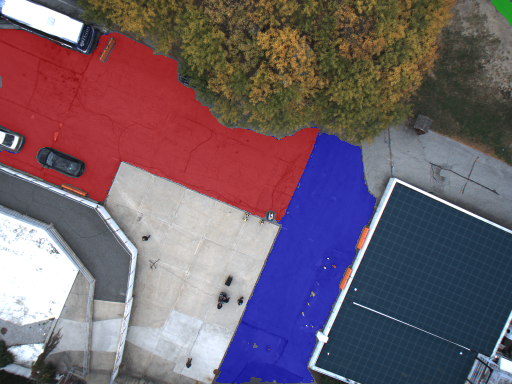
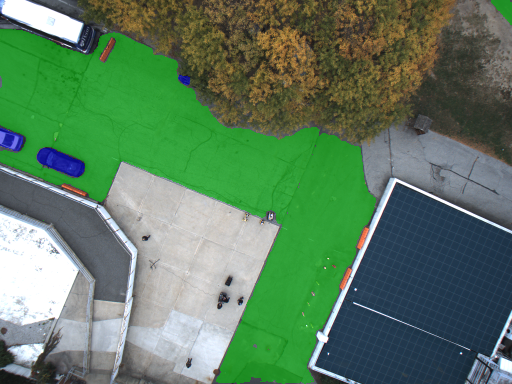
added multiclass segmentation

Changed region(s): [[0.0, 0.0625, 0.75, 1.0]]

diff --git a/cpp/test/test_road.cpp b/cpp/test/test_road.cpp
@@ -2,11 +2,12 @@
 // Author: Jason Hughes
 // Date:   2026
 //
-// Loads test.png (downscaled 4x), segments "road", saves mask and overlay.
-// Mirrors the behaviour of python/test_sam3.py for direct comparison.
+// Loads test.png (downscaled 4x), segments multiple text classes ("road", "car").
+// Image is encoded once; text encoder + mask decoder run once per class.
 
 #include <iostream>
 #include <vector>
+#include <chrono>
 #include <opencv2/opencv.hpp>
 
 #include "sam3/sam3_model.hpp"
@@ -15,7 +16,7 @@
 static const std::string MODELS_DIR  = "../models";
 static const std::string CONFIG_DIR  = "../config";
 static const std::string IMAGE_PATH  = "../../test.png";
-static const std::string TEXT_PROMPT = "road";
+static const std::vector<std::string> TEXT_PROMPTS = {"road", "car"};
 static const int         DOWNSCALE   = 4;
 
 int main(int argc, char** argv)
@@ -25,7 +26,9 @@ int main(int argc, char** argv)
     std::cout << "Loading SAM3 models ...\n";
     Sam3::Sam3 model(MODELS_DIR);
 
-    Sam3::Sam3Processor processor(CONFIG_DIR + "/sam3.yaml", CONFIG_DIR + "/merges.txt", CONFIG_DIR + "/vocab.json");
+    Sam3::Sam3Processor processor(CONFIG_DIR + "/sam3.yaml",
+                                  CONFIG_DIR + "/merges.txt",
+                                  CONFIG_DIR + "/vocab.json");
 
     cv::Mat full = cv::imread(IMAGE_PATH);
     if (full.empty())
@@ -39,70 +42,87 @@ int main(int argc, char** argv)
                cv::Size(full.cols / DOWNSCALE, full.rows / DOWNSCALE),
                0, 0, cv::INTER_AREA);
 
-    std::cout << "Image: " << full.cols << "x" << full.rows << " -> " << image.cols << "x" << image.rows << "\n";
-    std::cout << "Prompt: \"" << TEXT_PROMPT << "\"\n";
+    std::cout << "Image: " << full.cols << "x" << full.rows
+              << " -> " << image.cols << "x" << image.rows << "\n";
 
-    Sam3::Sam3ModelInputs inputs = processor.process(image, TEXT_PROMPT);
+    // Pre-process image (once) and all text prompts.
+    Sam3::Sam3ModelInputs image_inputs = processor.processImageOnly(image);
+    std::vector<Sam3::Sam3TextInputs> text_inputs = processor.processTexts(TEXT_PROMPTS);
 
-    std::cout << "Running inference ...\n";
-    model.setImage(inputs.pixel_values, inputs.orig_height, inputs.orig_width);
-    model.setText(inputs.input_ids, inputs.attention_mask);
-    // initial slow trace to initalize cuDNN
-    Sam3::Sam3Output output = model.inference();
-    
-    for (int i = 0; i < 10; i++) {
-        auto start = std::chrono::high_resolution_clock::now();
-        model.setImage(inputs.pixel_values, inputs.orig_height, inputs.orig_width);
-        output = model.inference();
-        auto end = std::chrono::high_resolution_clock::now();
+    std::cout << "Prompts:";
+    for (const auto& p : TEXT_PROMPTS) std::cout << " \"" << p << "\"";
+    std::cout << "\n";
 
-        std::chrono::duration<double, std::milli> duration = end - start;
-        
-        std::cout << "Test: " << i << " Inference took: " << duration.count() << " ms" << std::endl;
+    // Encode image once.
+    std::cout << "Encoding image ...\n";
+    model.setImage(image_inputs.pixel_values, image_inputs.orig_height, image_inputs.orig_width);
+
+    // Multi-class inference: text encoder + mask decoder run once per class,
+    // image features are reused.
+    std::cout << "Running multi-class inference (" << TEXT_PROMPTS.size() << " classes) ...\n";
+    auto t0 = std::chrono::high_resolution_clock::now();
+    std::vector<Sam3::Sam3Output> outputs = model.inferenceMultiClass(text_inputs);
+    auto t1 = std::chrono::high_resolution_clock::now();
+    std::chrono::duration<double, std::milli> elapsed = t1 - t0;
+    std::cout << "Inference took: " << elapsed.count() << " ms\n";
+
+    for (int i = 0; i < 10; i++) 
+    {
+        auto t0 = std::chrono::high_resolution_clock::now();
+        model.setImage(image_inputs.pixel_values, image_inputs.orig_height, image_inputs.orig_width);
+        std::vector<Sam3::Sam3Output> outputs = model.inferenceMultiClass(text_inputs);
+        auto t1 = std::chrono::high_resolution_clock::now();
+        std::chrono::duration<double, std::milli> elapsed = t1 - t0;
+        std::cout << "Inference took: " << elapsed.count() << " ms\n";
     }
-    std::cout << "pred_masks:      " << output.pred_masks.sizes()      << "\n";
-    std::cout << "pred_logits:     " << output.pred_logits.sizes()     << "\n";
-    std::cout << "presence_logits: " << output.presence_logits.sizes() << "\n";
-
-    std::vector<cv::Mat> masks = processor.postProcess(
-        output.pred_masks,
-        output.pred_logits,
-        output.presence_logits,
-        inputs.orig_height,
-        inputs.orig_width
-    );
-    std::cout << "Instances found: " << masks.size() << "\n";
-
+    // Colour per class.
     const std::vector<cv::Vec3b> colours = {
         {0,200,0}, {220,0,0}, {0,0,220},
         {0,200,200}, {200,0,200}, {200,200,0}
     };
 
-    cv::Mat overlay = image.clone();
+    cv::Mat overlay       = image.clone();
     cv::Mat combined_mask = cv::Mat::zeros(image.size(), CV_8UC1);
 
-    for (size_t i = 0; i < masks.size(); ++i)
+    for (size_t cls = 0; cls < outputs.size(); ++cls)
     {
-        cv::Vec3b col = colours[i % colours.size()];
-        for (int r = 0; r < overlay.rows; ++r)
-            for (int c = 0; c < overlay.cols; ++c)
-                if (masks[i].at<uchar>(r, c) > 0)
-                {
-                    cv::Vec3b pix = image.at<cv::Vec3b>(r, c);
-                    overlay.at<cv::Vec3b>(r, c) = cv::Vec3b(
-                        static_cast<uchar>(0.45f * pix[0] + 0.55f * col[0]),
-                        static_cast<uchar>(0.45f * pix[1] + 0.55f * col[1]),
-                        static_cast<uchar>(0.45f * pix[2] + 0.55f * col[2])
-                    );
-                    combined_mask.at<uchar>(r, c) = 255;
-                }
+        std::cout << "Class \"" << TEXT_PROMPTS[cls] << "\":\n";
+        std::cout << "  pred_masks:      " << outputs[cls].pred_masks.sizes()      << "\n";
+        std::cout << "  pred_logits:     " << outputs[cls].pred_logits.sizes()     << "\n";
+        std::cout << "  presence_logits: " << outputs[cls].presence_logits.sizes() << "\n";
+
+        std::vector<cv::Mat> masks = processor.postProcess(
+            outputs[cls].pred_masks,
+            outputs[cls].pred_logits,
+            outputs[cls].presence_logits,
+            image_inputs.orig_height,
+            image_inputs.orig_width
+        );
+        std::cout << "  Instances found: " << masks.size() << "\n";
+
+        cv::Vec3b col = colours[cls % colours.size()];
+        for (const auto& mask : masks)
+        {
+            for (int r = 0; r < overlay.rows; ++r)
+                for (int c = 0; c < overlay.cols; ++c)
+                    if (mask.at<uchar>(r, c) > 0)
+                    {
+                        cv::Vec3b pix = image.at<cv::Vec3b>(r, c);
+                        overlay.at<cv::Vec3b>(r, c) = cv::Vec3b(
+                            static_cast<uchar>(0.45f * pix[0] + 0.55f * col[0]),
+                            static_cast<uchar>(0.45f * pix[1] + 0.55f * col[1]),
+                            static_cast<uchar>(0.45f * pix[2] + 0.55f * col[2])
+                        );
+                        combined_mask.at<uchar>(r, c) = static_cast<uchar>((cls + 1) * 80);
+                    }
+        }
     }
 
     const std::string overlay_path = "../../cpp_result.png";
     const std::string mask_path    = "../../cpp_mask.png";
 
-    cv::imwrite(overlay_path,  overlay);
-    cv::imwrite(mask_path,     combined_mask);
+    cv::imwrite(overlay_path, overlay);
+    cv::imwrite(mask_path,    combined_mask);
 
     std::cout << "Saved: " << overlay_path << "\n";
     std::cout << "Saved: " << mask_path    << "\n";

diff --git a/cpp/src/sam3_model.cpp b/cpp/src/sam3_model.cpp
@@ -72,9 +72,7 @@ torch::ScalarType Sam3ModelBase::getDType() const
 
 std::vector<at::Tensor> Sam3ImageEncoder::forward(const at::Tensor& pixel_values)
 {
-
     torch::NoGradGuard no_grad;
-    std::cout << "Raw input type: " << pixel_values.scalar_type() << std::endl;
     std::vector<torch::jit::IValue> inputs{ toDevice(pixel_values) };
     auto output = module_.forward(inputs);
 
@@ -92,11 +90,9 @@ std::vector<at::Tensor> Sam3ImageEncoder::forward(const at::Tensor& pixel_values
 
 at::Tensor Sam3TextEncoder::forward(const at::Tensor& input_ids, const at::Tensor& attention_mask)
 {
-    std::cout << "Text Inputs Types " << input_ids.scalar_type() << "   " << attention_mask.scalar_type() << std::endl;
     torch::NoGradGuard no_grad;
     at::Tensor ninput_ids = toDevice(input_ids);
     at::Tensor nattention_mask = toDevice(attention_mask);
-    std::cout << "Text Inputs Types " << ninput_ids.scalar_type() << "   " << nattention_mask.scalar_type() << std::endl;
     std::vector<torch::jit::IValue> inputs{
         ninput_ids,       // int64 – stays int, moved to device
         nattention_mask   // int64 – stays int, moved to device
@@ -200,6 +196,36 @@ Sam3Output Sam3::inference()
                               original_sizes);
 
     return Sam3Output{ pred_masks, pred_logits, presence_logits };
+}
+
+std::vector<Sam3Output> Sam3::inferenceMultiClass(const std::vector<Sam3TextInputs>& text_inputs)
+{
+    torch::NoGradGuard no_grad;
+    if (!image_cached_)
+        throw std::runtime_error("Sam3::inferenceMultiClass: call setImage() first.");
+
+    at::Tensor original_sizes = torch::tensor(
+        {{static_cast<int64_t>(orig_h_), static_cast<int64_t>(orig_w_)}},
+        torch::kInt64);
+
+    std::vector<Sam3Output> results;
+    results.reserve(text_inputs.size());
+
+    for (const auto& ti : text_inputs)
+    {
+        // setText caches the text embeds and moves the mask to device.
+        text_encoder_.setText(ti.input_ids, ti.attention_mask);
+
+        auto [pred_masks, pred_logits, presence_logits] =
+            mask_decoder_.forward(vision_features_,
+                                  text_encoder_.getTextEmbeds(),
+                                  text_encoder_.getAttentionMask(),
+                                  original_sizes);
+
+        results.push_back(Sam3Output{pred_masks, pred_logits, presence_logits});
+    }
+
+    return results;
 }
 
 Sam3Output Sam3::operator()(const at::Tensor& pixel_values,

diff --git a/cpp/src/processor.cpp b/cpp/src/processor.cpp
@@ -132,6 +132,35 @@ at::Tensor Sam3Processor::processText(const std::string& text, at::Tensor& atten
 }
 
 // ---------------------------------------------------------------------------
+
+Sam3ModelInputs Sam3Processor::processImageOnly(const cv::Mat& image) const
+{
+    if (image.empty())
+        throw std::runtime_error("Sam3Processor::processImageOnly: empty image.");
+
+    Sam3ModelInputs inp;
+    inp.pixel_values = processImage(image);
+    inp.orig_height  = image.rows;
+    inp.orig_width   = image.cols;
+    return inp;
+}
+
+// ---------------------------------------------------------------------------
+
+std::vector<Sam3TextInputs> Sam3Processor::processTexts(const std::vector<std::string>& texts) const
+{
+    std::vector<Sam3TextInputs> result;
+    result.reserve(texts.size());
+    for (const auto& text : texts)
+    {
+        at::Tensor attention_mask;
+        at::Tensor input_ids = processText(text, attention_mask);
+        result.push_back(Sam3TextInputs{input_ids, attention_mask});
+    }
+    return result;
+}
+
+// ---------------------------------------------------------------------------
 // Post-processing
 // ---------------------------------------------------------------------------
 

diff --git a/cpp/include/sam3/sam3_model.hpp b/cpp/include/sam3/sam3_model.hpp
@@ -136,6 +136,13 @@ struct Sam3Output
     at::Tensor presence_logits;  // (1, 1) scene presence logit
 };
 
+/// Pre-processed text for one class / prompt.
+struct Sam3TextInputs
+{
+    at::Tensor input_ids;       ///< (1, T) int64
+    at::Tensor attention_mask;  ///< (1, T) int64
+};
+
 /// Convenience class that owns all four sub-models and orchestrates inference.
 class Sam3
 {
@@ -155,6 +162,11 @@ public:
 
     /// Run full forward pass (image + text must have been set first).
     Sam3Output inference();
+
+    /// Encode text and decode masks for each class, reusing the cached image
+    /// features.  setImage() must be called before this.
+    /// Returns one Sam3Output per entry in text_inputs.
+    std::vector<Sam3Output> inferenceMultiClass(const std::vector<Sam3TextInputs>& text_inputs);
 
     /// Single-call convenience: encode image + text and decode masks.
     Sam3Output operator()(const at::Tensor& pixel_values,

diff --git a/cpp/include/sam3/processor.hpp b/cpp/include/sam3/processor.hpp
@@ -15,6 +15,7 @@
 
 #include "sam3/tokenizer.hpp"
 #include "sam3/processor_mixins.hpp"
+#include "sam3/sam3_model.hpp"
 
 namespace Sam3
 {
@@ -71,6 +72,12 @@ public:
 
     /// Pre-process a raw BGR image and a text prompt string.
     Sam3ModelInputs process(const cv::Mat& image, const std::string& text) const;
+
+    /// Pre-process image only (pixel_values + orig dimensions; text fields unset).
+    Sam3ModelInputs processImageOnly(const cv::Mat& image) const;
+
+    /// Pre-process a list of text prompts, one Sam3TextInputs per entry.
+    std::vector<Sam3TextInputs> processTexts(const std::vector<std::string>& texts) const;
 
     /// Post-process raw model outputs into per-instance binary masks.
     /// Mirrors HuggingFace Sam3Processor.post_process_instance_segmentation().
